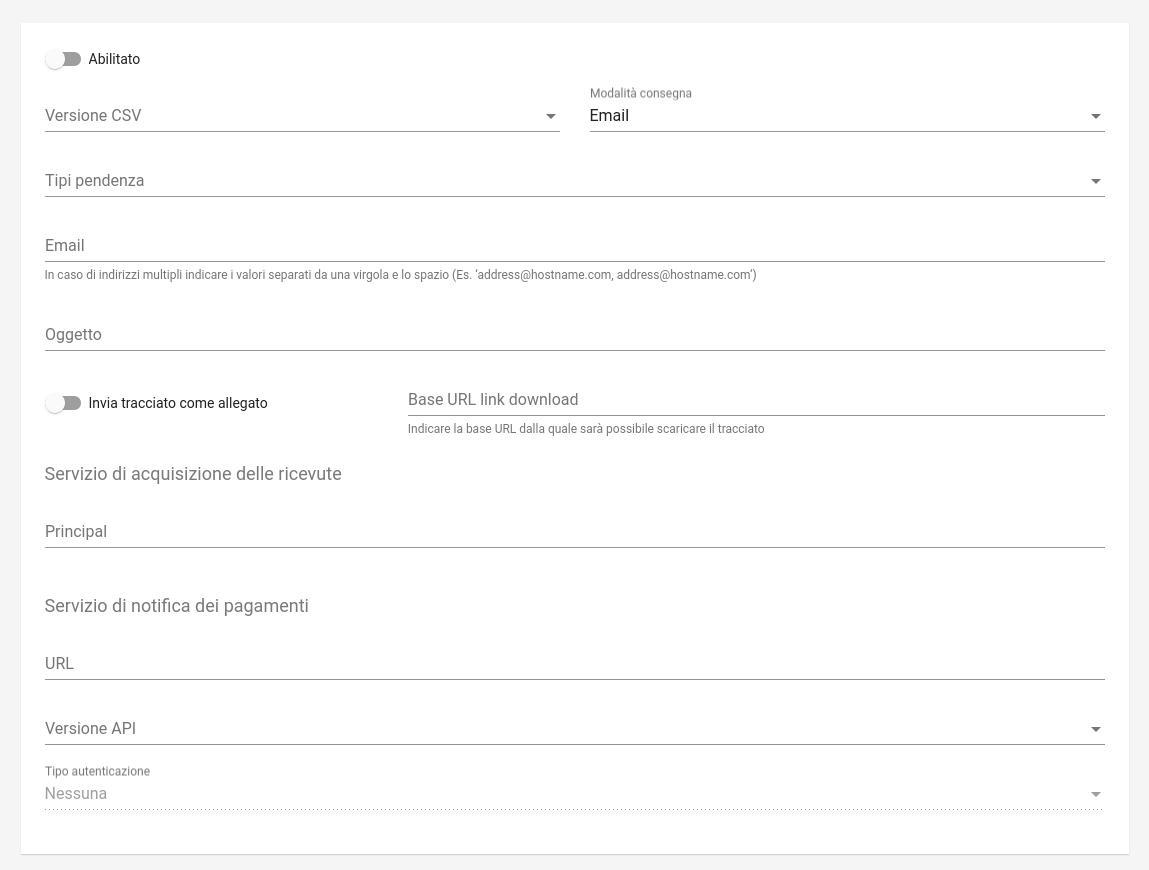
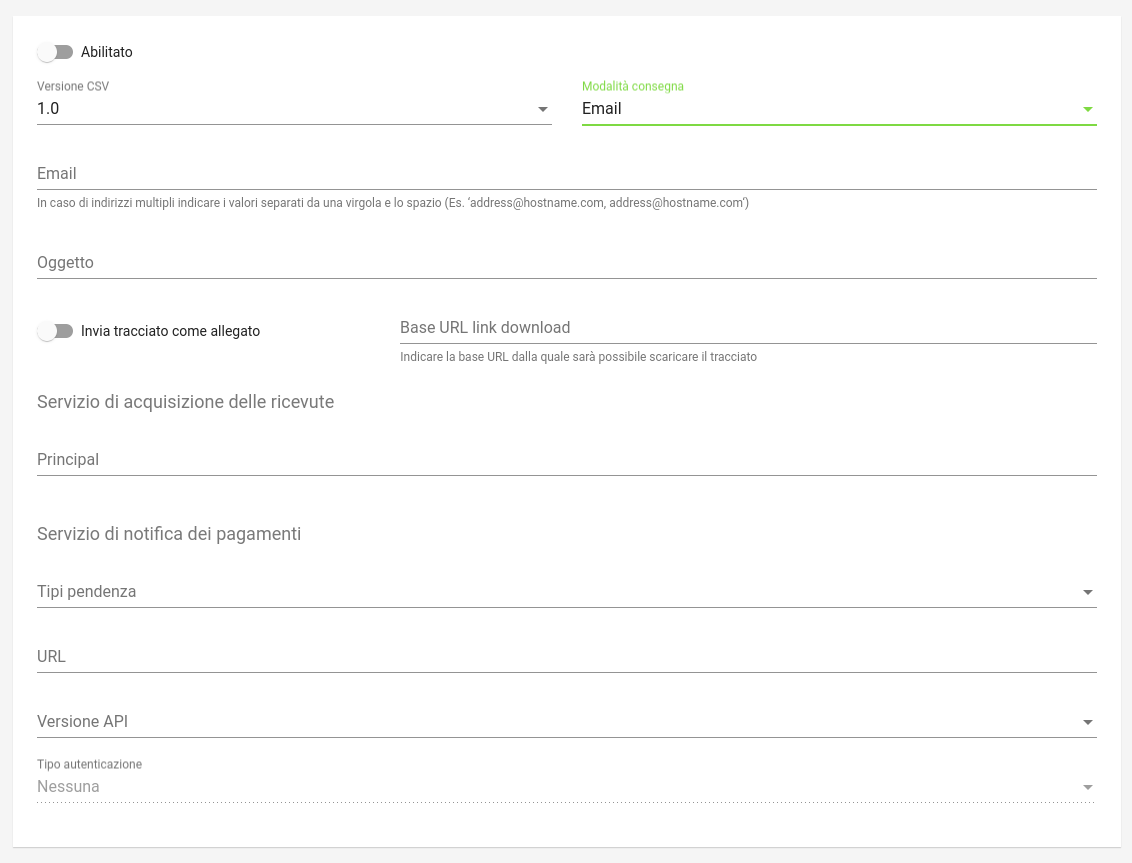
Spostato campo tipiPendenza all'interno della sezione servizio notifica.

diff --git a/wars/web-console/src/main/angular/console/src/app/elements/detail-view/views/dialog-view/dialog-views/connettore-maggioli/connettore-maggioli.component.html b/wars/web-console/src/main/angular/console/src/app/elements/detail-view/views/dialog-view/dialog-views/connettore-maggioli/connettore-maggioli.component.html
@@ -22,15 +22,6 @@
           </mat-select>
         </mat-form-field>
       </div>
-      <div class="row">
-        <mat-form-field class="col-12" color="accent" [formGroup]="fGroup">
-          <mat-select [placeholder]="_Voce.TIPI_PENDENZA" formControlName="tipiPendenza_ctrl" [compareWith]="_pendenzaCmpFn"
-                      (selectionChange)="_tipoChange($event)" multiple [required]="maggioliAbilitato">
-            <mat-option [value]="_all" [disabled]="_option.hasOption">{{_all.descrizione}}</mat-option>
-            <mat-option *ngFor="let item of _tipiPendenza" [disabled]="_option.hasAllOption" [value]="item">{{item.idTipoPendenza}}</mat-option>
-          </mat-select>
-        </mat-form-field>
-      </div>
       <div class="row mb-4" *ngIf="tipoConnettore.value === Util.CONNETTORE_MODALITA_EMAIL">
         <mat-form-field class="col-12" color="accent" [formGroup]="fGroup">
           <input matInput [placeholder]="_Voce.EMAIL" formControlName="emailIndirizzi_ctrl" autocomplete="off"
@@ -62,6 +53,13 @@
                  [required]="maggioliAbilitato">
         </mat-form-field>
         <p class="col-12 matcard-title pt-4 mb-3 color-gray regular-18">Servizio di notifica dei pagamenti</p>
+        <mat-form-field class="col-12" color="accent" [formGroup]="fGroup">
+          <mat-select [placeholder]="_Voce.TIPI_PENDENZA" formControlName="tipiPendenza_ctrl" [compareWith]="_pendenzaCmpFn"
+                      (selectionChange)="_tipoChange($event)" multiple [required]="maggioliAbilitato">
+            <mat-option [value]="_all" [disabled]="_option.hasOption">{{_all.descrizione}}</mat-option>
+            <mat-option *ngFor="let item of _tipiPendenza" [disabled]="_option.hasAllOption" [value]="item">{{item.idTipoPendenza}}</mat-option>
+          </mat-select>
+        </mat-form-field>
         <mat-form-field class="col-12" color="accent" [formGroup]="fGroup">
           <input #urlCtrl matInput placeholder="URL" formControlName="url_ctrl" autocomplete="off" [required]="maggioliAbilitato">
         </mat-form-field>
